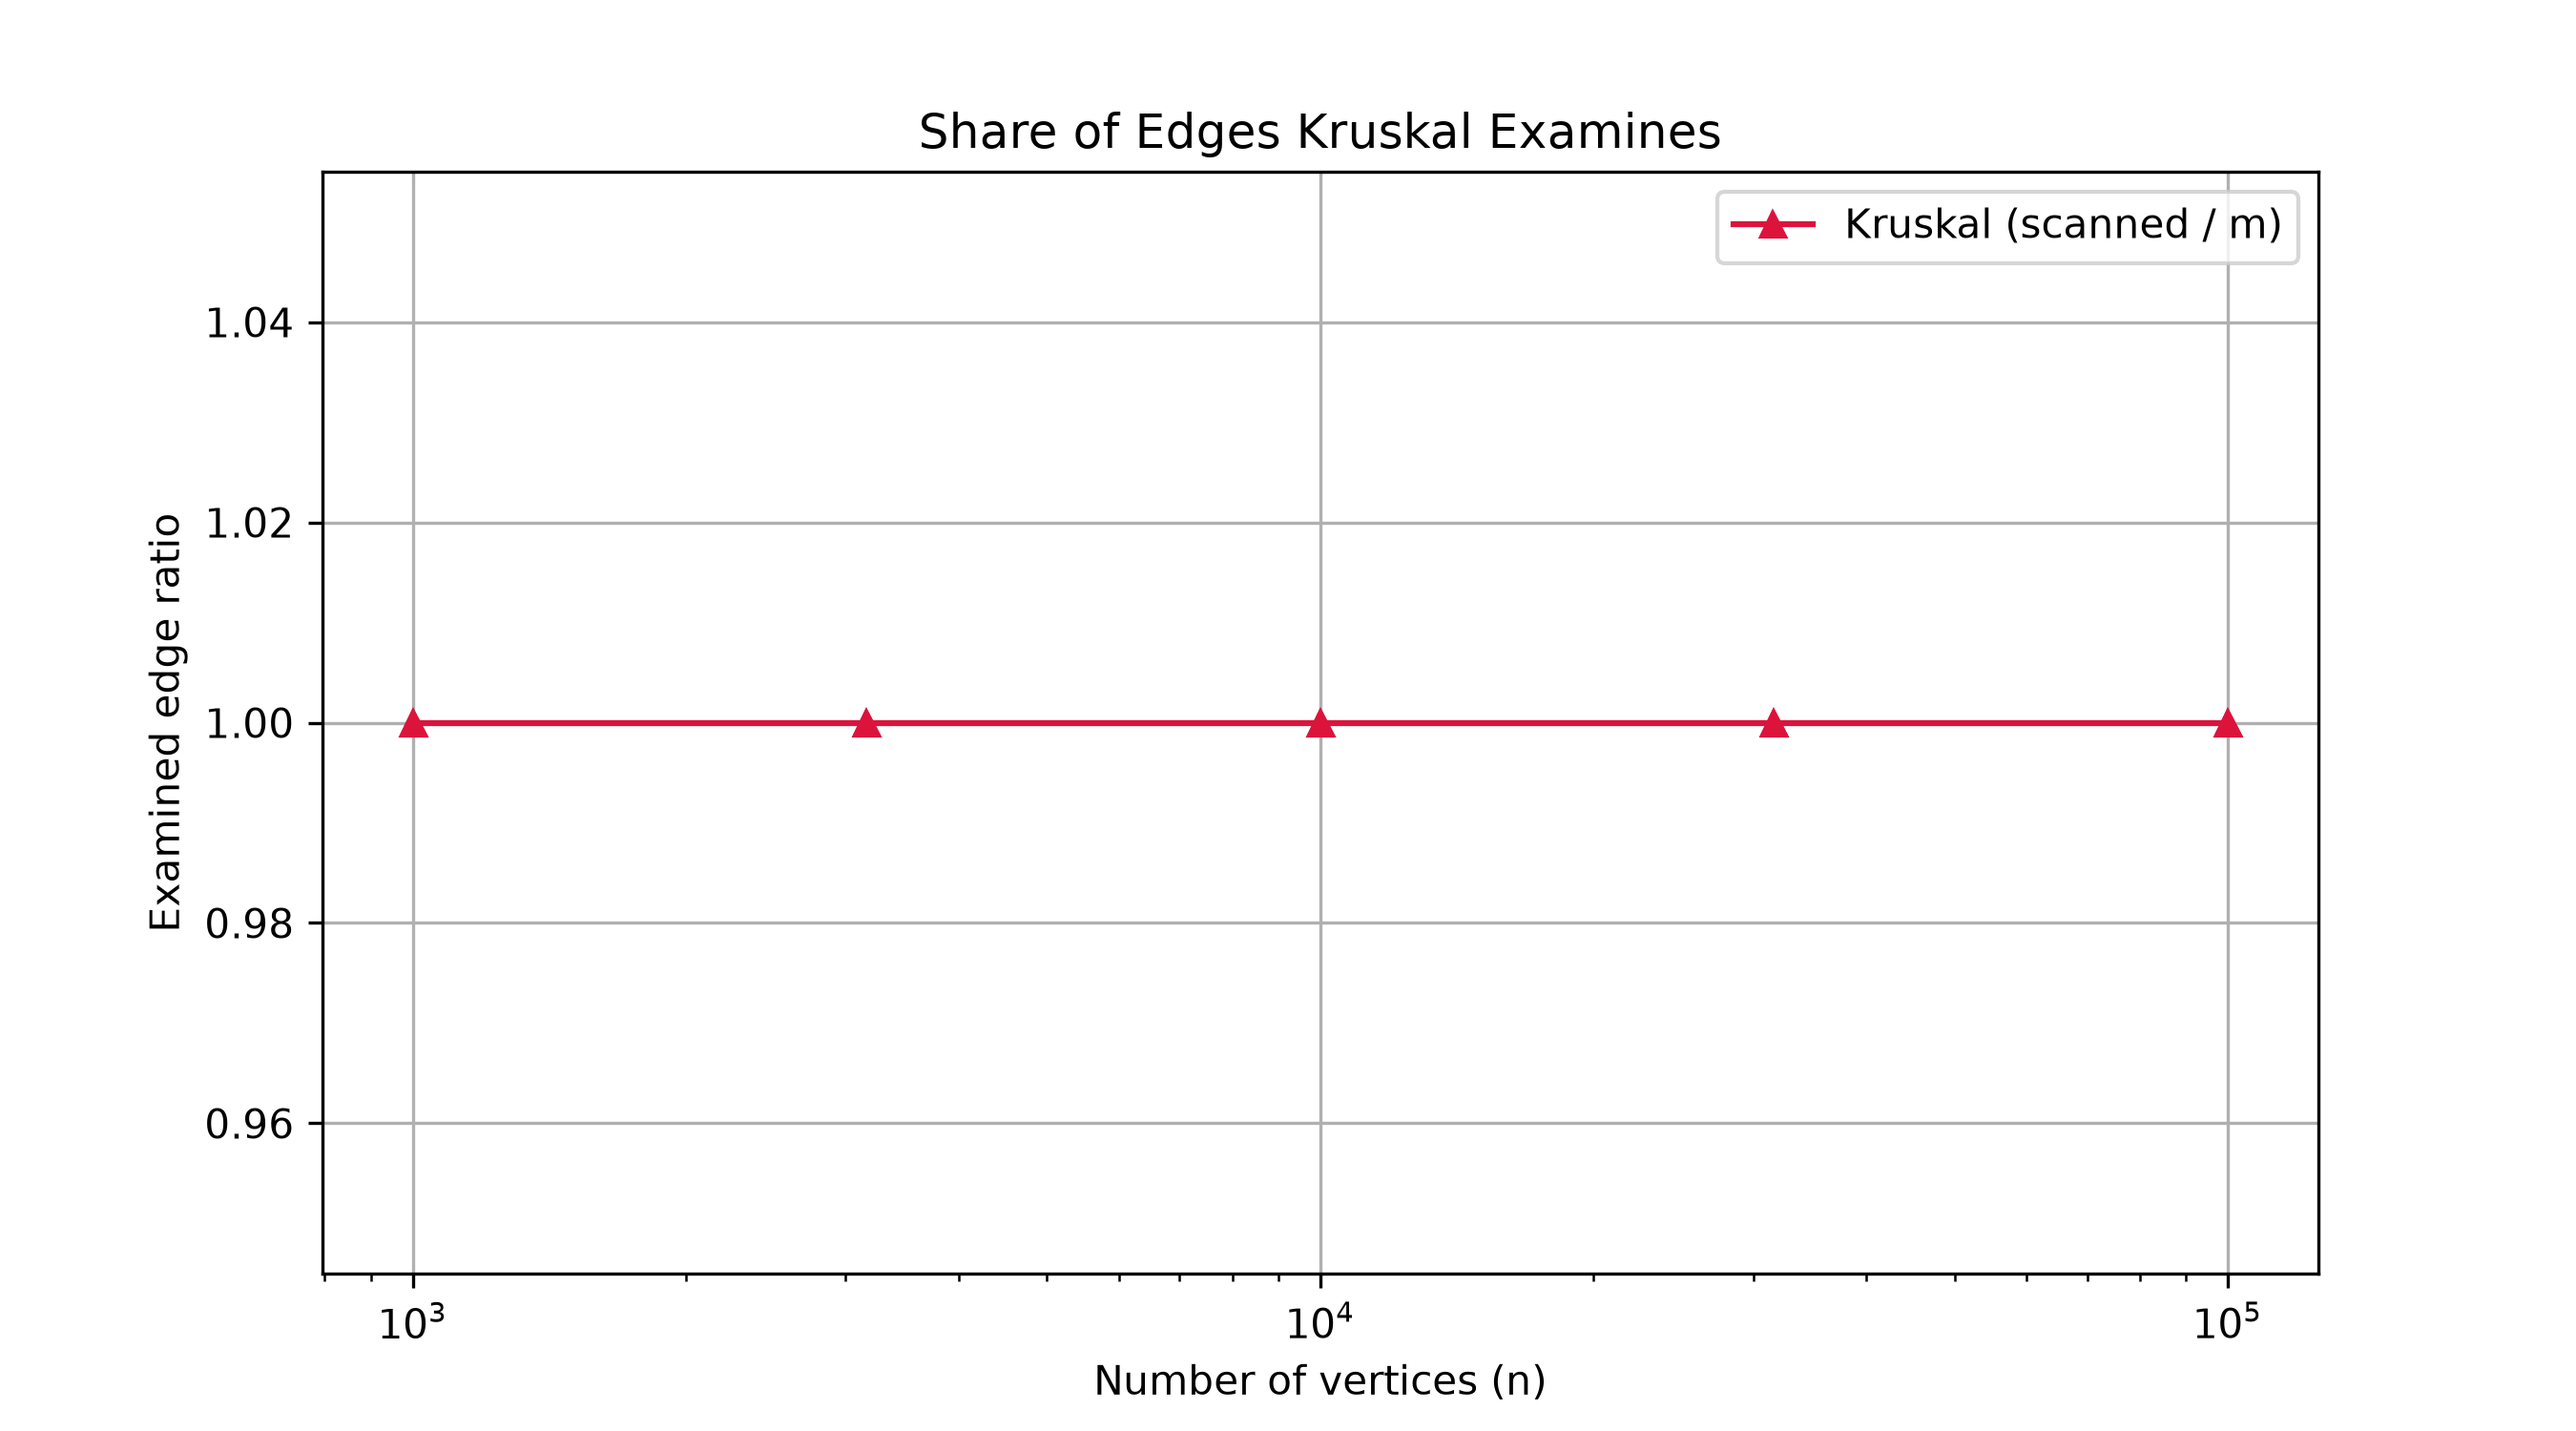
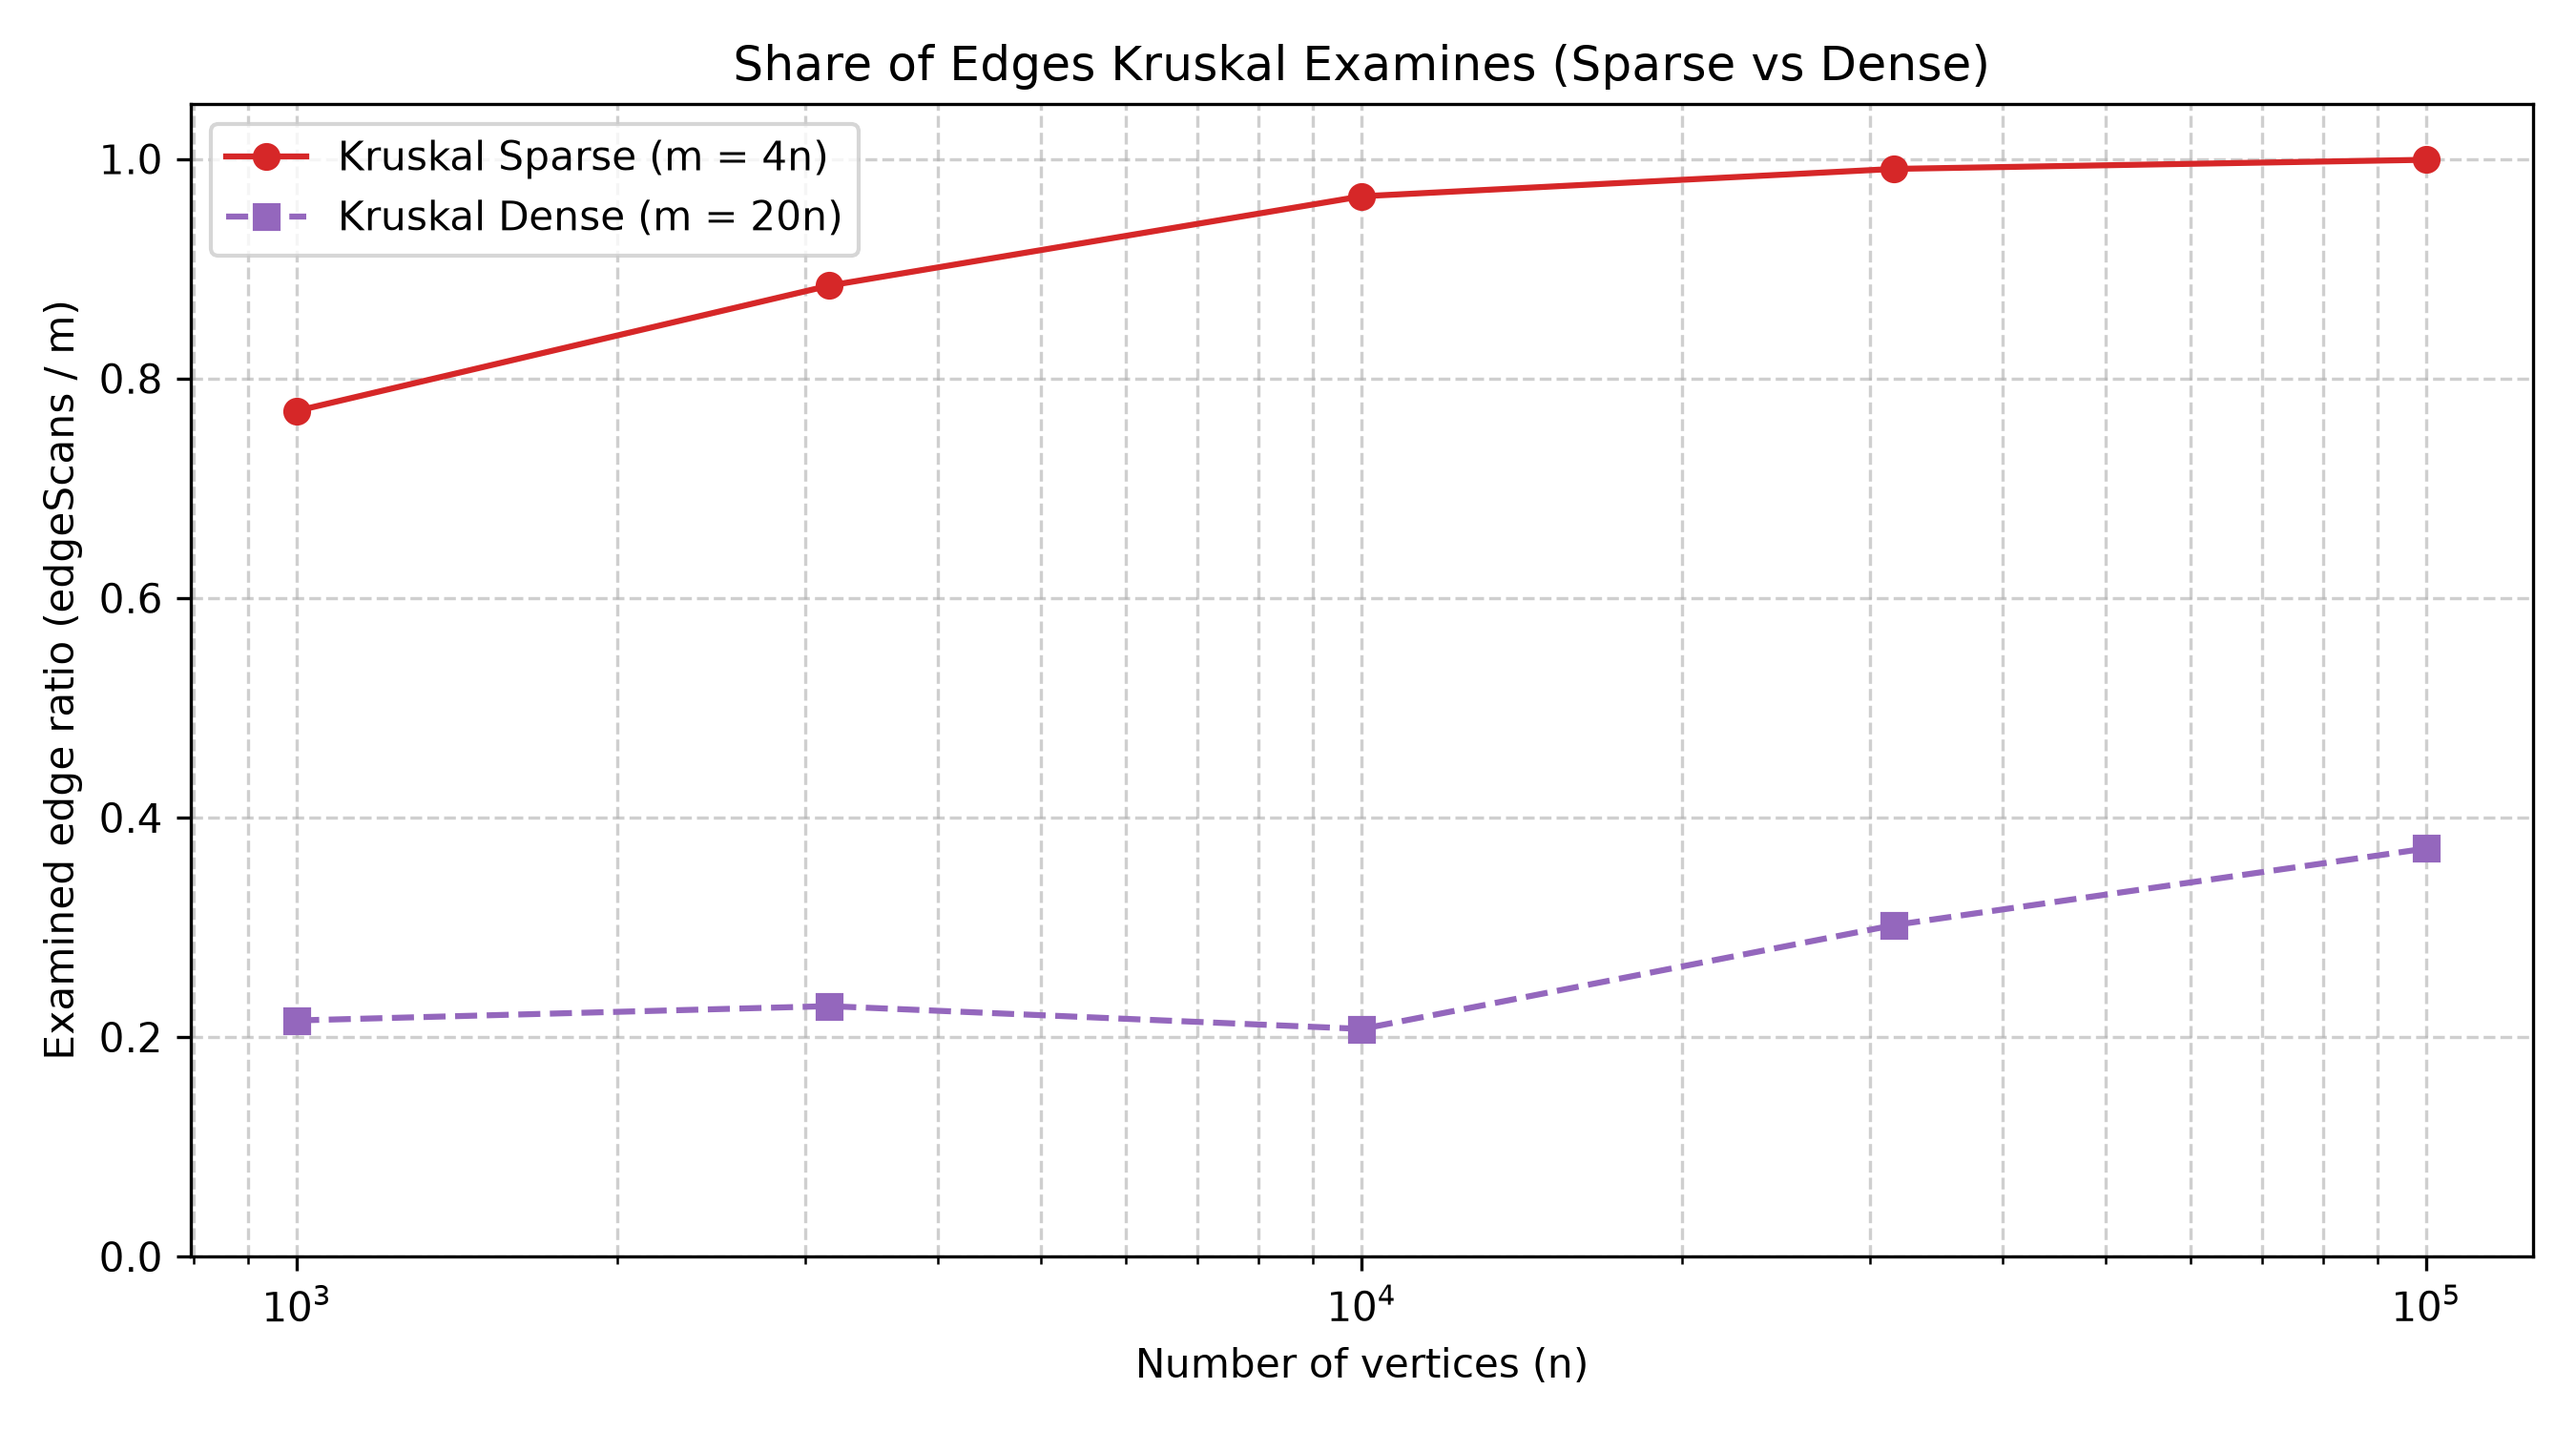
fix(kruskal): add early exit on MST completion and fix benchmark plots

diff --git a/make_plots.py b/make_plots.py
@@ -1,50 +1,83 @@
 import pandas as pd
 import matplotlib.pyplot as plt
+import numpy as np
 import os
 
 os.makedirs('results/plots', exist_ok=True)
 df = pd.read_csv('results/results.csv')
 
-# Plot 1: Operations vs n (Log-Log)
-plt.figure(figsize=(9, 5))
+df['density'] = np.where(df['m'] <= 4 * df['n'], 'sparse (m=4n)', 'dense (m=20n)')
+
+
+plt.figure(figsize=(10, 6))
+colors = {'Kosaraju': '#1f77b4', 'Kahn': '#ff7f0e', 'DagShortestPath': '#2ca02c'}
+
 for algo in ['Kosaraju', 'Kahn', 'DagShortestPath']:
-    subset = df[df['algorithm'] == algo]
-    plt.plot(subset['n'], subset['edge_scans'], marker='o', label=f"{algo} (edgeScans)")
+    sub_sparse = df[(df['algorithm'] == algo) & (df['density'] == 'sparse (m=4n)')].sort_values('n')
+    plt.plot(sub_sparse['n'], sub_sparse['edge_scans'], 
+             marker='o', linestyle='-', color=colors[algo], 
+             label=f"{algo} (sparse)")
+    
+    sub_dense = df[(df['algorithm'] == algo) & (df['density'] == 'dense (m=20n)')].sort_values('n')
+    plt.plot(sub_dense['n'], sub_dense['edge_scans'], 
+             marker='s', linestyle='--', color=colors[algo], 
+             label=f"{algo} (dense)")
+
 plt.xscale('log')
 plt.yscale('log')
 plt.xlabel('Number of vertices (n)')
-plt.ylabel('Operations')
+plt.ylabel('Operations (edgeScans)')
 plt.title('Operations vs n (Log-Log Scale)')
-plt.legend()
-plt.grid(True, which="both", ls="--")
+plt.legend(bbox_to_anchor=(1.04, 1), loc="upper left")
+plt.grid(True, which="both", ls="--", alpha=0.6)
+plt.tight_layout()
 plt.savefig('results/plots/operations_vs_n.png', dpi=300)
 plt.close()
 
-# Plot 2: Scans per edge vs n (edgeScans / m vs n)
+
 plt.figure(figsize=(9, 5))
-for algo in ['Kosaraju', 'Kahn', 'DagShortestPath']:
-    subset = df[df['algorithm'] == algo]
-    plt.plot(subset['n'], subset['edge_scans'] / subset['m'], marker='s', label=f"{algo}")
+kos_sparse = df[(df['algorithm'] == 'Kosaraju') & (df['density'] == 'sparse (m=4n)')].sort_values('n')
+plt.plot(kos_sparse['n'], kos_sparse['edge_scans'] / kos_sparse['m'], 
+         marker='o', linestyle='-', color='#1f77b4', label='Kosaraju (2 passes = 2.0)')
+
+kahn_sparse = df[(df['algorithm'] == 'Kahn') & (df['density'] == 'sparse (m=4n)')].sort_values('n')
+plt.plot(kahn_sparse['n'], kahn_sparse['edge_scans'] / kahn_sparse['m'], 
+         marker='s', linestyle='--', linewidth=2.5, color='#ff7f0e', label='Kahn (1.0)')
+
+dag_sparse = df[(df['algorithm'] == 'DagShortestPath') & (df['density'] == 'sparse (m=4n)')].sort_values('n')
+plt.plot(dag_sparse['n'], dag_sparse['edge_scans'] / dag_sparse['m'], 
+         marker='^', linestyle=':', linewidth=2, color='#2ca02c', label='DagShortestPath (1.0)')
+
 plt.xscale('log')
+plt.ylim(0.5, 2.5)
 plt.xlabel('Number of vertices (n)')
 plt.ylabel('edgeScans / m')
-plt.title('Scans per edge vs n (Flat line indicates O(E) complexity)')
+plt.title('Scans per edge vs n (Flat line confirms O(E) complexity)')
 plt.legend()
-plt.grid(True)
+plt.grid(True, which="both", ls="--", alpha=0.6)
+plt.tight_layout()
 plt.savefig('results/plots/scans_per_edge.png', dpi=300)
 plt.close()
 
-# Plot 3: Share of edges Kruskal examines (edgeScans / m)
+
 plt.figure(figsize=(9, 5))
-kruskal_df = df[df['algorithm'] == 'Kruskal']
-plt.plot(kruskal_df['n'], kruskal_df['edge_scans'] / kruskal_df['m'], marker='^', color='crimson', label='Kruskal (scanned / m)')
+kruskal_sparse = df[(df['algorithm'] == 'Kruskal') & (df['density'] == 'sparse (m=4n)')].sort_values('n')
+kruskal_dense = df[(df['algorithm'] == 'Kruskal') & (df['density'] == 'dense (m=20n)')].sort_values('n')
+
+plt.plot(kruskal_sparse['n'], kruskal_sparse['edge_scans'] / kruskal_sparse['m'], 
+         marker='o', linestyle='-', color='#d62728', label='Kruskal Sparse (m = 4n)')
+plt.plot(kruskal_dense['n'], kruskal_dense['edge_scans'] / kruskal_dense['m'], 
+         marker='s', linestyle='--', color='#9467bd', label='Kruskal Dense (m = 20n)')
+
 plt.xscale('log')
+plt.ylim(0.0, 1.05)
 plt.xlabel('Number of vertices (n)')
-plt.ylabel('Examined edge ratio')
-plt.title('Share of Edges Kruskal Examines')
+plt.ylabel('Examined edge ratio (edgeScans / m)')
+plt.title('Share of Edges Kruskal Examines (Sparse vs Dense)')
 plt.legend()
-plt.grid(True)
+plt.grid(True, which="both", ls="--", alpha=0.6)
+plt.tight_layout()
 plt.savefig('results/plots/kruskal_edge_share.png', dpi=300)
 plt.close()
 
-print("Plots successfully generated in results/plots/")
+print("All plots successfully regenerated.")

diff --git a/src/main/java/com/assignment3/mst/Kruskal.java b/src/main/java/com/assignment3/mst/Kruskal.java
@@ -46,6 +46,9 @@ public class Kruskal {
                 dsu.union(e.u, e.v);
                 mstEdges.add(e);
                 totalWeight += e.weight;
+                if (mstEdges.size() == graph.n - 1) {
+                    break;
+                }
             }
         }
 
